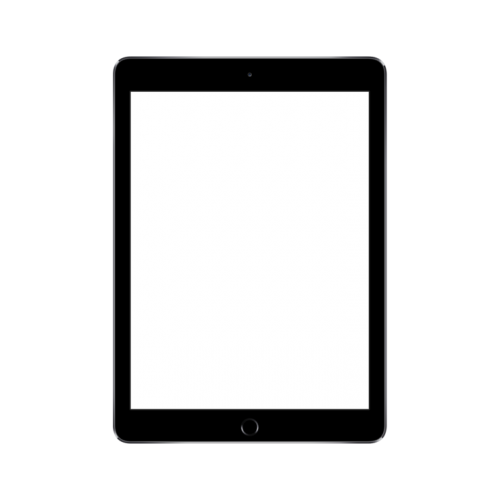
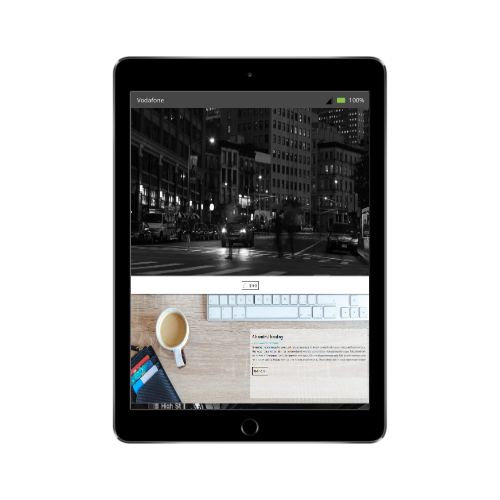
new image for testimonials and new image for device

Changed region(s): [[0.24, 0.18, 0.75, 0.84]]

diff --git a/index.html b/index.html
@@ -116,12 +116,45 @@
     </section> 
 
     <section> <!-- TESTIMONIAL -->
+        <div id="showContainer" class="container-fluid testimonial">
+            <div class="row text-center">
+                <div class="col-md-6 offset-md-3">
+                    <div class="pic">
+                        <img src="assets/user_img.png" alt="pic">
+                        <h3 class="testimonial-title">Lorem Ipsum<small>, Web Developer</small></h3>
+                        <p class="description" style="word-wrap; break-word;">Lorem ipsum dolor sit amet, consectetur adipisicing elit. Possimus mollitia quos maiores autem sint ratione! Ipsum iusto, mollitia necessitatibus voluptates consequatur est quod. Adipisci perferendis harum optio blanditiis! Optio, sequi.</p>
+                    </div>  
+                </div>  
+            </div>
+        </div>
         <div class="container-fluid testimonial">
             <div class="row text-center">
                 <div class="col-md-6 offset-md-3">
                     <div class="pic">
-                        <img src="https://i.imgur.com/ZU8FgEc.png" alt="pic">
-                        <h3 class="testimonial-title">Lorem Ipsum<small>, Web Developer</small></h3>
+                        <img src="assets/user_img.png" alt="pic">
+                        <h3 class="testimonial-title">Lorem Ipsum<small>, Web Designer</small></h3>
+                        <p class="description" style="word-wrap; break-word;">Lorem ipsum dolor sit amet, consectetur adipisicing elit. Possimus mollitia quos maiores autem sint ratione! Ipsum iusto, mollitia necessitatibus voluptates consequatur est quod. Adipisci perferendis harum optio blanditiis! Optio, sequi.</p>
+                    </div>  
+                </div>  
+            </div>
+        </div>
+        <div class="container-fluid testimonial">
+            <div class="row text-center">
+                <div class="col-md-6 offset-md-3">
+                    <div class="pic">
+                        <img src="assets/user_img.png" alt="pic">
+                        <h3 class="testimonial-title">Lorem Ipsum<small>, Webmarketer</small></h3>
+                        <p class="description" style="word-wrap; break-word;">Lorem ipsum dolor sit amet, consectetur adipisicing elit. Possimus mollitia quos maiores autem sint ratione! Ipsum iusto, mollitia necessitatibus voluptates consequatur est quod. Adipisci perferendis harum optio blanditiis! Optio, sequi.</p>
+                    </div>  
+                </div>  
+            </div>
+        </div>
+        <div class="container-fluid testimonial">
+            <div class="row text-center">
+                <div class="col-md-6 offset-md-3">
+                    <div class="pic">
+                        <img src="assets/user_img.png" alt="pic">
+                        <h3 class="testimonial-title">Lorem Ipsum<small>, Content Manager</small></h3>
                         <p class="description" style="word-wrap; break-word;">Lorem ipsum dolor sit amet, consectetur adipisicing elit. Possimus mollitia quos maiores autem sint ratione! Ipsum iusto, mollitia necessitatibus voluptates consequatur est quod. Adipisci perferendis harum optio blanditiis! Optio, sequi.</p>
                     </div>  
                 </div>  

diff --git a/design.js b/design.js
@@ -1,7 +1,7 @@
 // brands slideshow 
 
-var slideIndex = 0;
-showSlides();
+var slideIndex = 0; // shows how many slides are going to show
+showSlides(); 
 
 function showSlides() {
     var i;
@@ -14,3 +14,5 @@ function showSlides() {
     slides[slideIndex-1].style.display = "block"; 
     setTimeout(showSlides, 3000); // Change image every 2 seconds
 }
+
+// 
